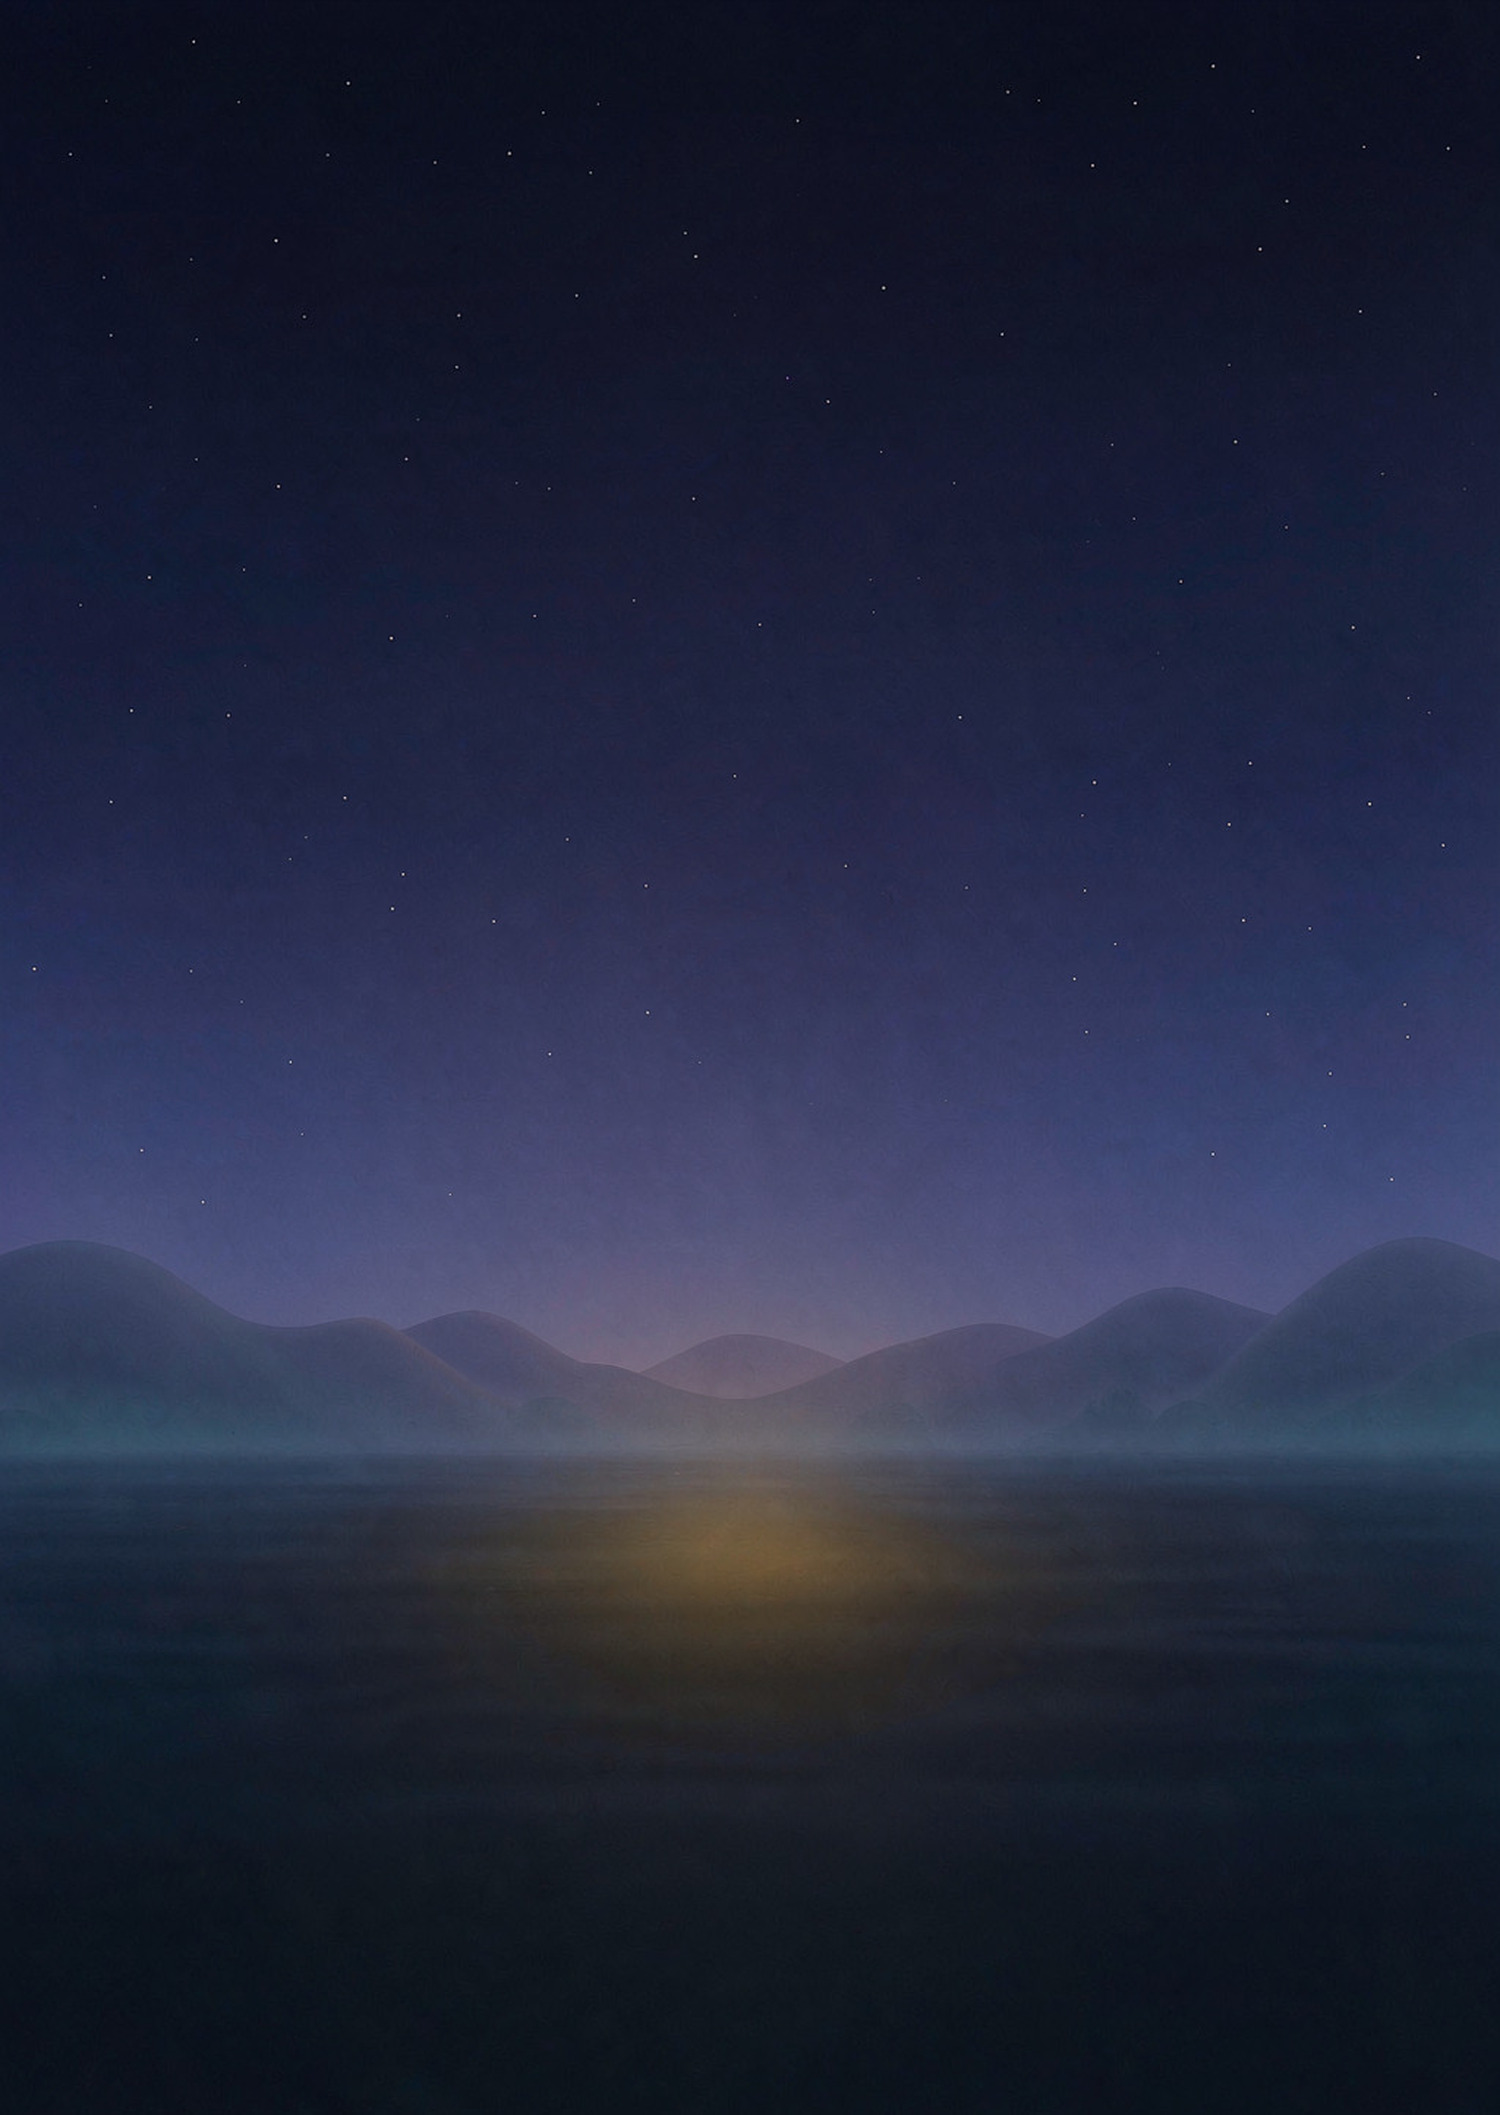
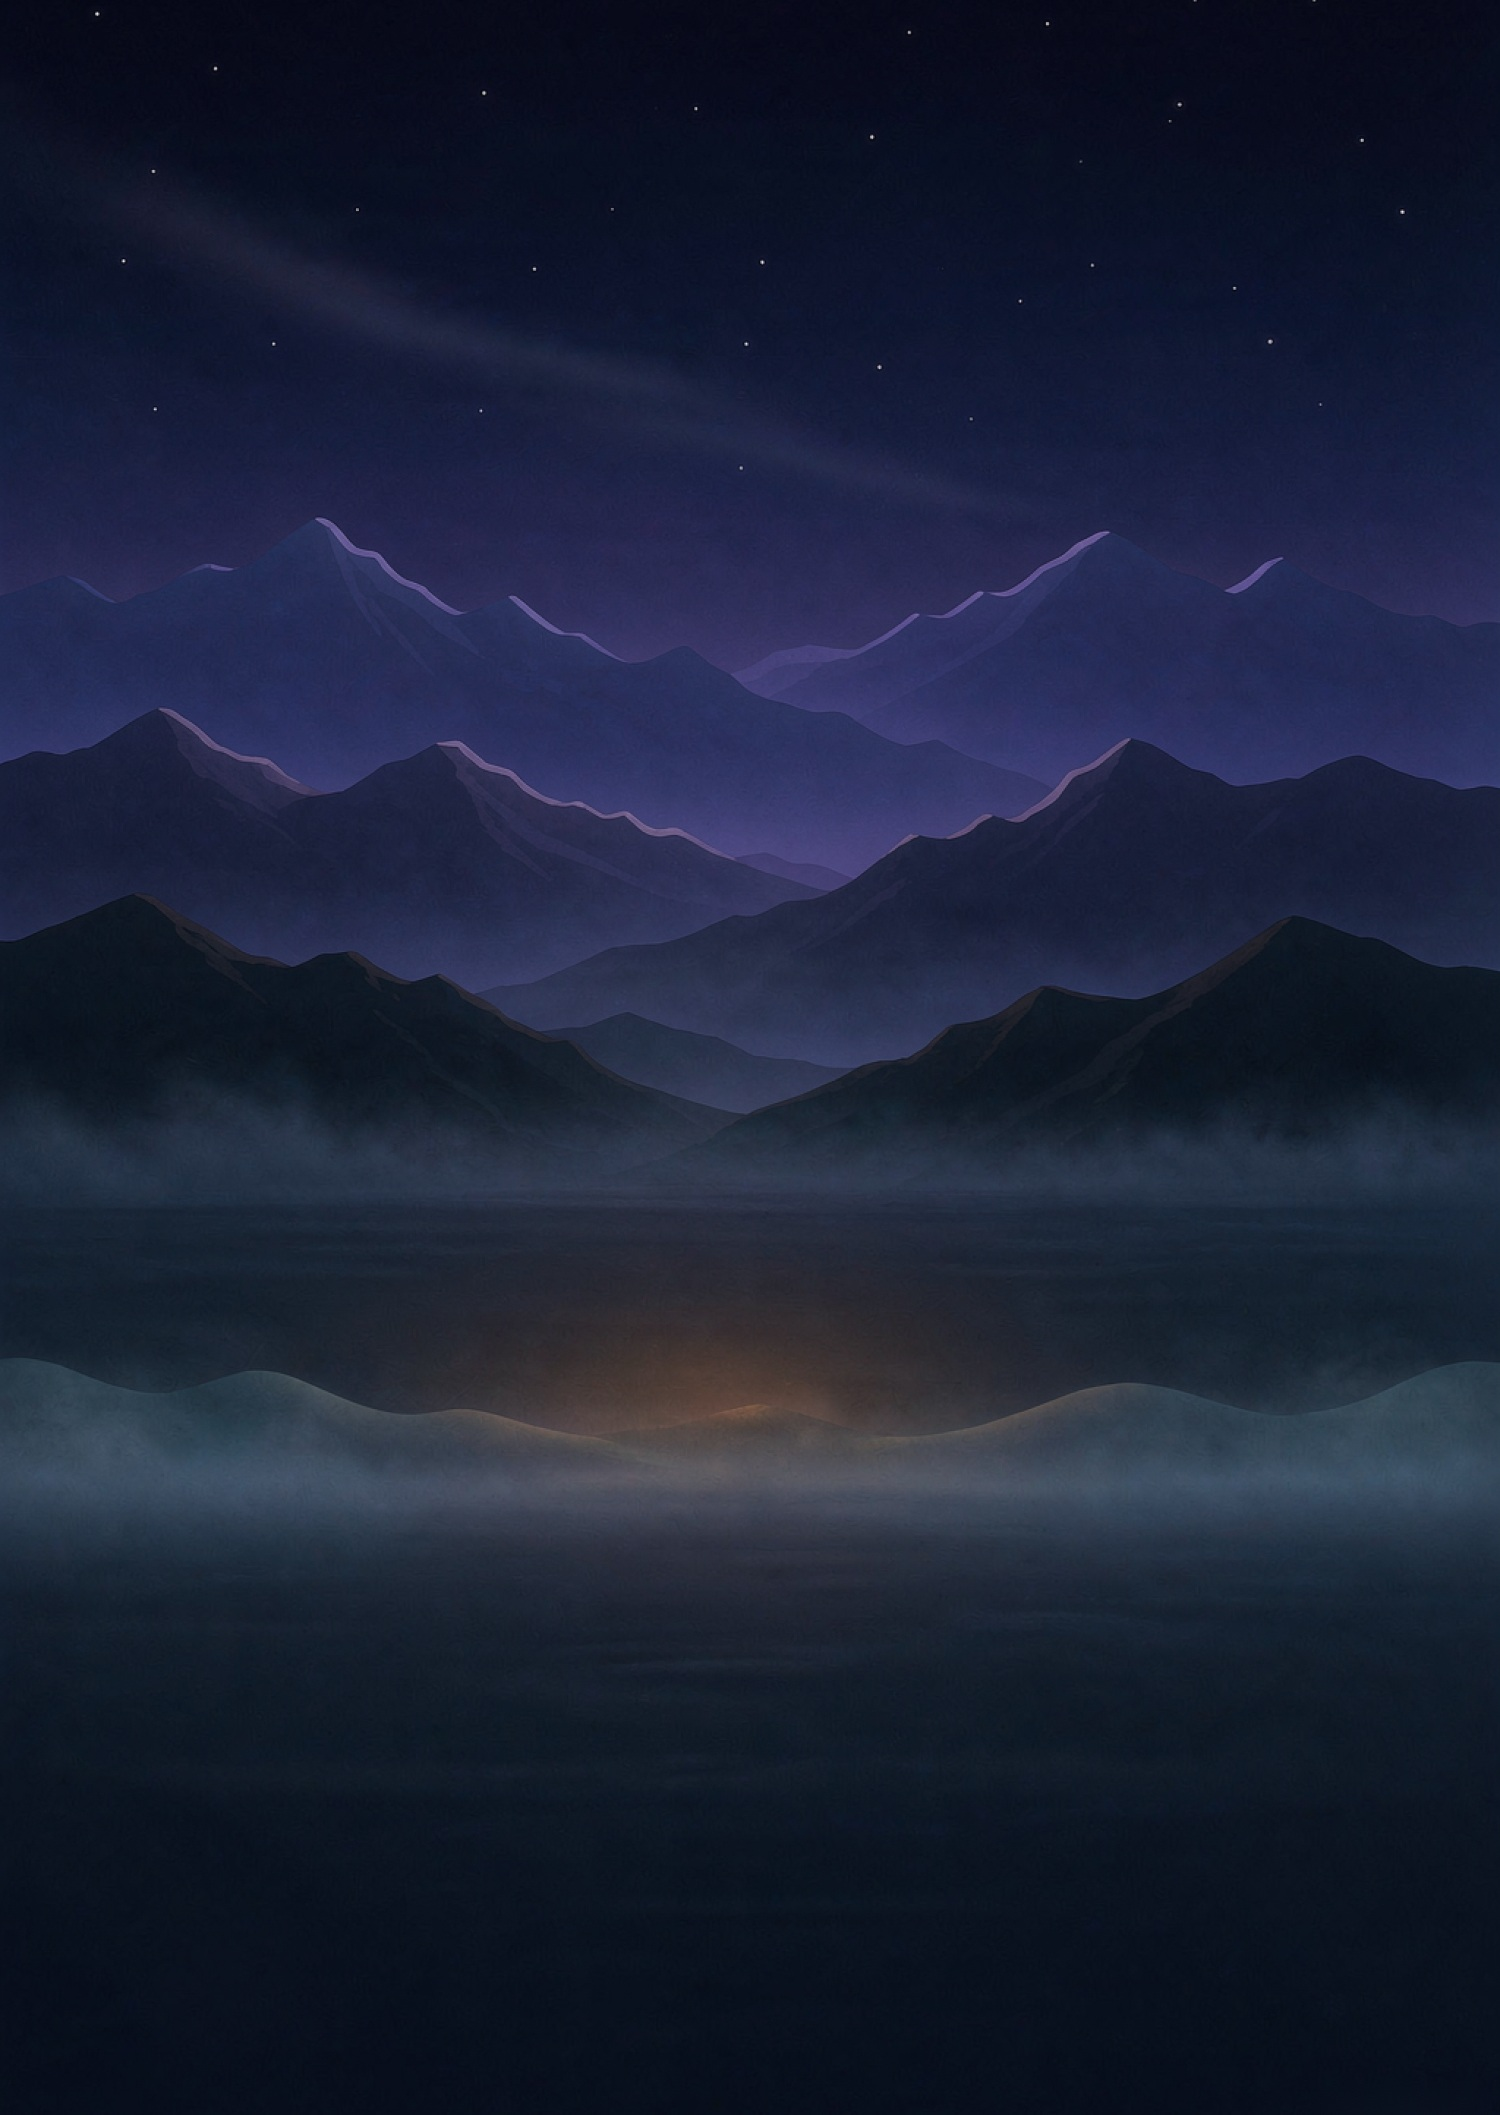
feat(art): 大厅背景按UI可见窗口重排景深，消除上部空旷与中下部白画
问题（396x833 实测）：上一版地平线在 58%、暖光在 70-100%，而 UI 在
72% 以下（上阵卡 72-80% / 开战按钮 80-88% / 导航 92-98%）全部遮挡。
结果是上部 0-45% 只有纯渐变显得空旷，下半部最有内容的暖光湖面被白画。

改为按「UI 可见窗口 0-72%」重排六段式景深：
- 0-6%    近黑深靛（资源栏底）             L12-15
- 6-20%   夜空 + 12-18 颗细星 + 极淡薄雾    L15-30
- 20-52%  层叠远山三层剪影（远/中/近）       L30-55  -> 消灭上部空旷
- 52-62%  雾面平台 + 中央暖琥珀反光         L38-48
- 62-72%  云海雾层（连续雾，非圆球云）       L45-70  -> 承载城堡，落在可见窗口内
- 72-100% 近黑暗底（被 UI 盖住，不求内容）   L15-25

保持基调不变：深蓝靛冷色、无月亮、无建筑、稀疏星、中央低细节。
mean L 41 -> 34，std 23 -> 17（更暗更静，前景更突出）。

渲染侧：暗角底部起点 86% -> 90%、末端 0.18/0.36 -> 0.16/0.34，
使 58%-78% 的云海与暖光完全通透，不被暗角吃掉。

ART-STYLE.md 5.1 升级为「六段式分层 + 可见窗口铁律」：
新增禁止光束/流星/银河/极光、圆球卡通云（云海须连续雾层）；
适配改为等比裁高不横向拉伸（避免星点被拉成椭圆）。

验证：1500x2115 与清单一致；水印 inpaint 后右下 max L 21；
396x833 / 430x932 / 320x568 三尺寸截图无露底、无裁切异常；
全量测试 53 通过 / 0 失败，check-imports 51 文件。

diff --git a/src/system/RenderSystem.js b/src/system/RenderSystem.js
@@ -2897,17 +2897,16 @@ export class RenderSystem {
     // 晴空乐园：大厅背景已是正式素材，以不透明绘制，避免 artAlpha=0.5 让城堡发白；
     // 全局 artAlpha 保持 0.5，只影响其他界面仍未替换的占位图水印。
     this._drawBackdrop(w, h, 1);
-    // 背景已重绘为「三层景深」低明度底（夜空 L17 → 地平线 L78 → 地面 L19），
-    // 整体压暗的 20% 黑遮罩会把唯一的地平线层次压掉、并拉大与前景的明度断层，
-    // 故改为「上下暗角」：只在顶部资源栏 / 底部导航两端轻微压暗保证文字可读，
-    // 中间城堡区完全通透，保留远山与地平线的景深过渡。
+    // 背景按「大厅可见窗口」重排为层叠景深：夜空 0-20% → 远山 24-52% → 雾面平台 52-62%
+    // → 云海+暖光 62-75% → 暗底 75-100%。其中 75% 以下全部被上阵卡/开战按钮/导航遮挡，
+    // 故暗角只需收在两端：顶部压资源栏、底部压导航，58%-78% 的云海与暖光必须完全通透。
     const vignette = ctx.createLinearGradient(0, 0, 0, h);
     vignette.addColorStop(0, 'rgba(8, 12, 24, 0.34)');
     vignette.addColorStop(0.14, 'rgba(8, 12, 24, 0.15)');
     vignette.addColorStop(0.45, 'rgba(8, 12, 24, 0)');
-    vignette.addColorStop(0.7, 'rgba(8, 12, 24, 0)');
-    vignette.addColorStop(0.86, 'rgba(8, 12, 24, 0.18)');
-    vignette.addColorStop(1, 'rgba(8, 12, 24, 0.36)');
+    vignette.addColorStop(0.8, 'rgba(8, 12, 24, 0)');
+    vignette.addColorStop(0.9, 'rgba(8, 12, 24, 0.16)');
+    vignette.addColorStop(1, 'rgba(8, 12, 24, 0.34)');
     ctx.fillStyle = vignette;
     ctx.fillRect(0, 0, w, h);
 

diff --git a/ART-STYLE.md b/ART-STYLE.md
@@ -156,25 +156,43 @@
 
 **设计目标**：背景不抢焦点，同时不让暖色前景（暖铜城堡 / 活力橙按钮）在冷色底上显得孤立。
 
-**三层景深（占比按画面高度）**
+#### 铁律：分层按「UI 可见窗口」排，不按画面均分
+
+先量出 UI 占位（以 396×833 / 9:19.5 为准，各机型比例基本一致）：
+
+| 区间 | UI 元素 | 背景是否可见 |
+|---|---|---|
+| 0–6% | 资源栏 | 被遮 |
+| 6–16% | 玩家卡（左 1/3）+ 功能按钮列（贴右边缘） | 部分可见 |
+| 16–26% | 空档 | **全宽可见** |
+| 26–72% | 段位城堡 → 进度条 → 赛季剩余 | 城堡两侧可见 |
+| 72–80% | 上阵兵种白卡 | **全遮** |
+| 80–100% | 开战按钮 + 底部导航 | **全遮** |
+
+**结论：可用窗口只有 0–72%，72–100% 等于白画。** 任何景深内容（地平线、暖光、云海）只要掉到 70% 以下就等于不存在 —— 这正是上一版「上部空旷 + 中下部内容被遮」的根因。
+
+#### 六段式分层（占比按画面高度）
 
 | 层 | 区间 | 内容 | 明度 |
 |---|---|---|---|
-| 夜空 | 0–45% | 深蓝靛渐变，星点稀疏 | L 17–30 |
-| 远山剪影 | 45–58% | 蓝紫灰圆缓轮廓，**只有轮廓无细节** | L 55–70 |
-| 雾面地面 / 湖面 | 58–100% | 近黑暗蓝，2–3 条极淡横向反光 | L 19–26 |
+| 近黑顶 | 0–6% | 深靛近黑，几乎无特征（资源栏底） | L 12–15 |
+| 夜空 | 6–20% | 深靛渐变（**不能纯黑**）+ 12–18 颗细星 + 一层极淡斜向薄雾 | L 15–30 |
+| 层叠远山 | 20–52% | 远 / 中 / 近三层圆缓剪影，逐层加深，山脊带极淡月光边 | L 30–55 |
+| 雾面平台 | 52–62% | 低细节暗面 + 中央极淡暖琥珀反光（无光源、无边缘） | L 38–48 |
+| 云海 / 雾层 | 62–72% | 柔和无缝雾浪，**必须不是朵朵圆云** | L 45–70 |
+| 暗底 | 72–100% | 近黑暗蓝收底（被 UI 盖住，不求内容） | L 15–25 |
 
-地平线雾带最亮（L 75–85），正好落在段位城堡底部 / 进度条一带 —— 城堡「站」在这条线上，前后关系才成立。
+- **山峦底缘必须被雾吞没**，不能是硬线；三层深度靠明度差（约每层 -8 L）拉开，不靠细节。
+- **云海是「连续雾层」而非「圆球云团」**：AI 对 `sea of clouds` 默认会画出成堆圆云，prompt 必须显式写 `no cumulus clouds / no round puffy cartoon clouds / no cloud outlines / seamless mist layer`。
+- 远山承担「消灭空旷」职责，云海承担「承载城堡」职责 —— 两者都不能出现在 20% 以上。
 
-**硬性禁止**：月亮、太阳、任何高亮天体；城堡 / 建筑 / 塔 / 房屋；树木 / 人物 / 动物；硬边云团；镜头光晕 / 光斑 / 许愿光；密集星点；中央高亮或高频纹理。
+**硬性禁止**：月亮、太阳、任何高亮天体；城堡 / 建筑 / 塔 / 房屋；树木 / 人物 / 动物 / 船；**光束 / 流星 / 银河 / 极光 / 星云**（抢焦点最强来源）；镜头光晕 / 光斑 / 许愿光；圆球状卡通云 / 云朵轮廓线；密集星点；中央高亮或高频纹理；噪点 / 胶片颗粒。
 
-**中央保护区**：屏幕中 70% 宽 × 30%–70% 高必须保持低细节暗区（无星点聚集、无亮斑、无杂乱纹理），供半透明 UI 卡片叠加。
+**中央保护区**：中间 60% 宽 × 25%–70% 高，要求 L std ≤ 16、max L ≤ 130。前景奶油白卡片 ≈ L 227，背景任何位置不得接近这个亮度。
 
-**允许并鼓励**：中央底部一层**极淡暖琥珀反光**（L 不高于地平线雾带），呼应上方暖铜城堡，解决冷底与暖前景的割裂。
+**适配**：清单声明规格 `1500×2115`（ratio 0.709）。生成用 `1024×1536`，按 0.709 **等比裁高**（上下各 46px）后用 LANCZOS 放大到 1500×2115 —— 绝不横向拉伸（会把星点拉成椭圆、山体变形）。渲染侧 `fit: 'cover'`，真机左右各裁 17.5%，**所有结构元素必须落在中央 60% 宽度内**，左右各 18% 只留平滑渐变。生成后需 inpaint 掉右下角 AI 水印（该区域是均匀暗底，inpaint 无痕）。
 
-**适配**：按 `1024×1536` 生成，渲染侧 `fit: 'cover'`。真机 9:19.5 下左右各裁约 15%，**所有重要内容必须落在中央 65% 宽度内**；不再使用 2:3 完整插画去裁（会切掉两侧建筑、留下残缺边缘）。生成后需裁掉右下角 AI 水印。
-
-**渲染侧配套**：不要用整体压暗遮罩（会把唯一的地平线层次压掉、并拉大与前景的明度断层）。`RenderSystem.drawLobby` 只叠**上下暗角**：顶部 0.34→0.15、中部 0→0、底部 0.18→0.36，保证资源栏 / 底部导航文字可读，城堡区完全通透。
+**渲染侧配套**：不要用整体压暗遮罩（会压掉地平线层次、拉大与前景的明度断层）。`RenderSystem.drawLobby` 只叠**上下暗角**：顶部 0.34→0.15（0–14%）、中部 0（45–80%）、底部 0.16→0.34（90–100%）。**58%–78% 必须完全通透**，否则云海与暖光会被暗角吃掉。
 
 ---
 
@@ -260,3 +278,4 @@ node tools/gen-art-manifest.mjs   # 自动重写 src/system/ArtManifest.js
 | 2026-11-17 | 新增 2.6：程序化 UI 配色真相源 `RenderSystem.UI_THEME`；大厅写死的暗色方块（单位槽/功能行/开战/底栏/顶栏/徽章/进度条）统一改为晴空乐园圆角卡片，消除方块观感 |
 | 2026-11-17 | 视觉重构二轮：清空大厅装饰层 `BIND_LOBBY`（消除中部 5 条白色横条 + 白蒙 + 占位叠加），大厅背景改不透明；新增文字三级色阶 `ink/navy/navySoft`；功能行与底部 Tab 改统一云白卡片 + 主题描边 + 深色字，移除 `btn_normal` 重复底框 |
 | 2026-11-18 | 大厅背景重绘为「三层景深舞台底」并新增 5.1 规范：去掉月亮与左右建筑（原图 4 个焦点、中间带最亮 L101–115），改为夜空/远山剪影/雾面地面明度递减（L17→L78→L19，整体 mean L 41）；中央 70%×30–70% 为低细节保护区；保留底部极淡暖琥珀反光呼应暖铜城堡；渲染侧 20% 整体黑遮罩改为上下暗角 |
+| 2026-11-18 | 大厅背景二次重绘：发现上版地平线落在 58%、暖光落在 70–100%，而 UI 在 72% 以下全遮 —— 上部空旷 + 中下部白画。改为按「UI 可见窗口」排布：层叠远山 20–52%（三层剪影消灭空旷）、雾面平台+暖光 52–62%、云海雾层 62–72%，72–100% 只留暗底。5.1 规范升级为「六段式分层 + 可见窗口铁律」，新增禁止光束/流星/银河/圆球卡通云，标注「云海须连续雾层」，适配改为等比裁高不横向拉伸；暗角底部起点由 86% 下移到 90%、58–78% 完全通透 |
